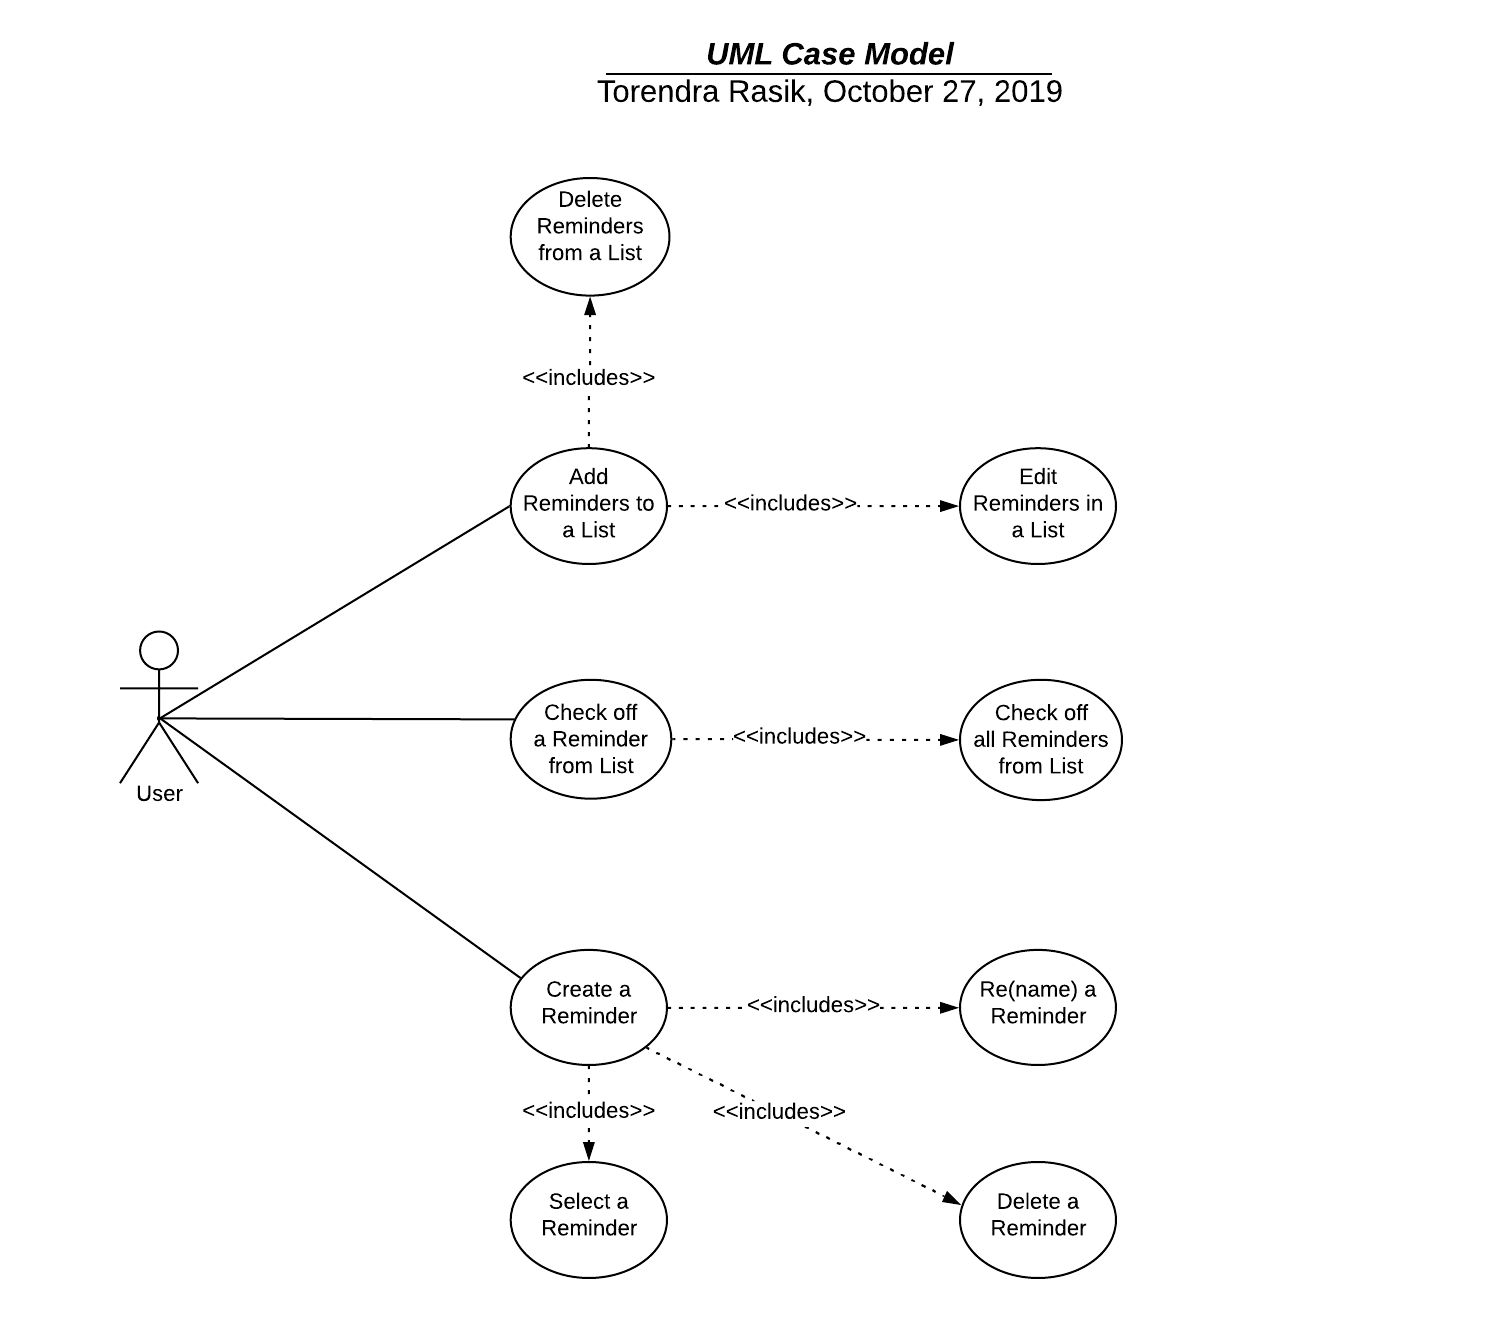
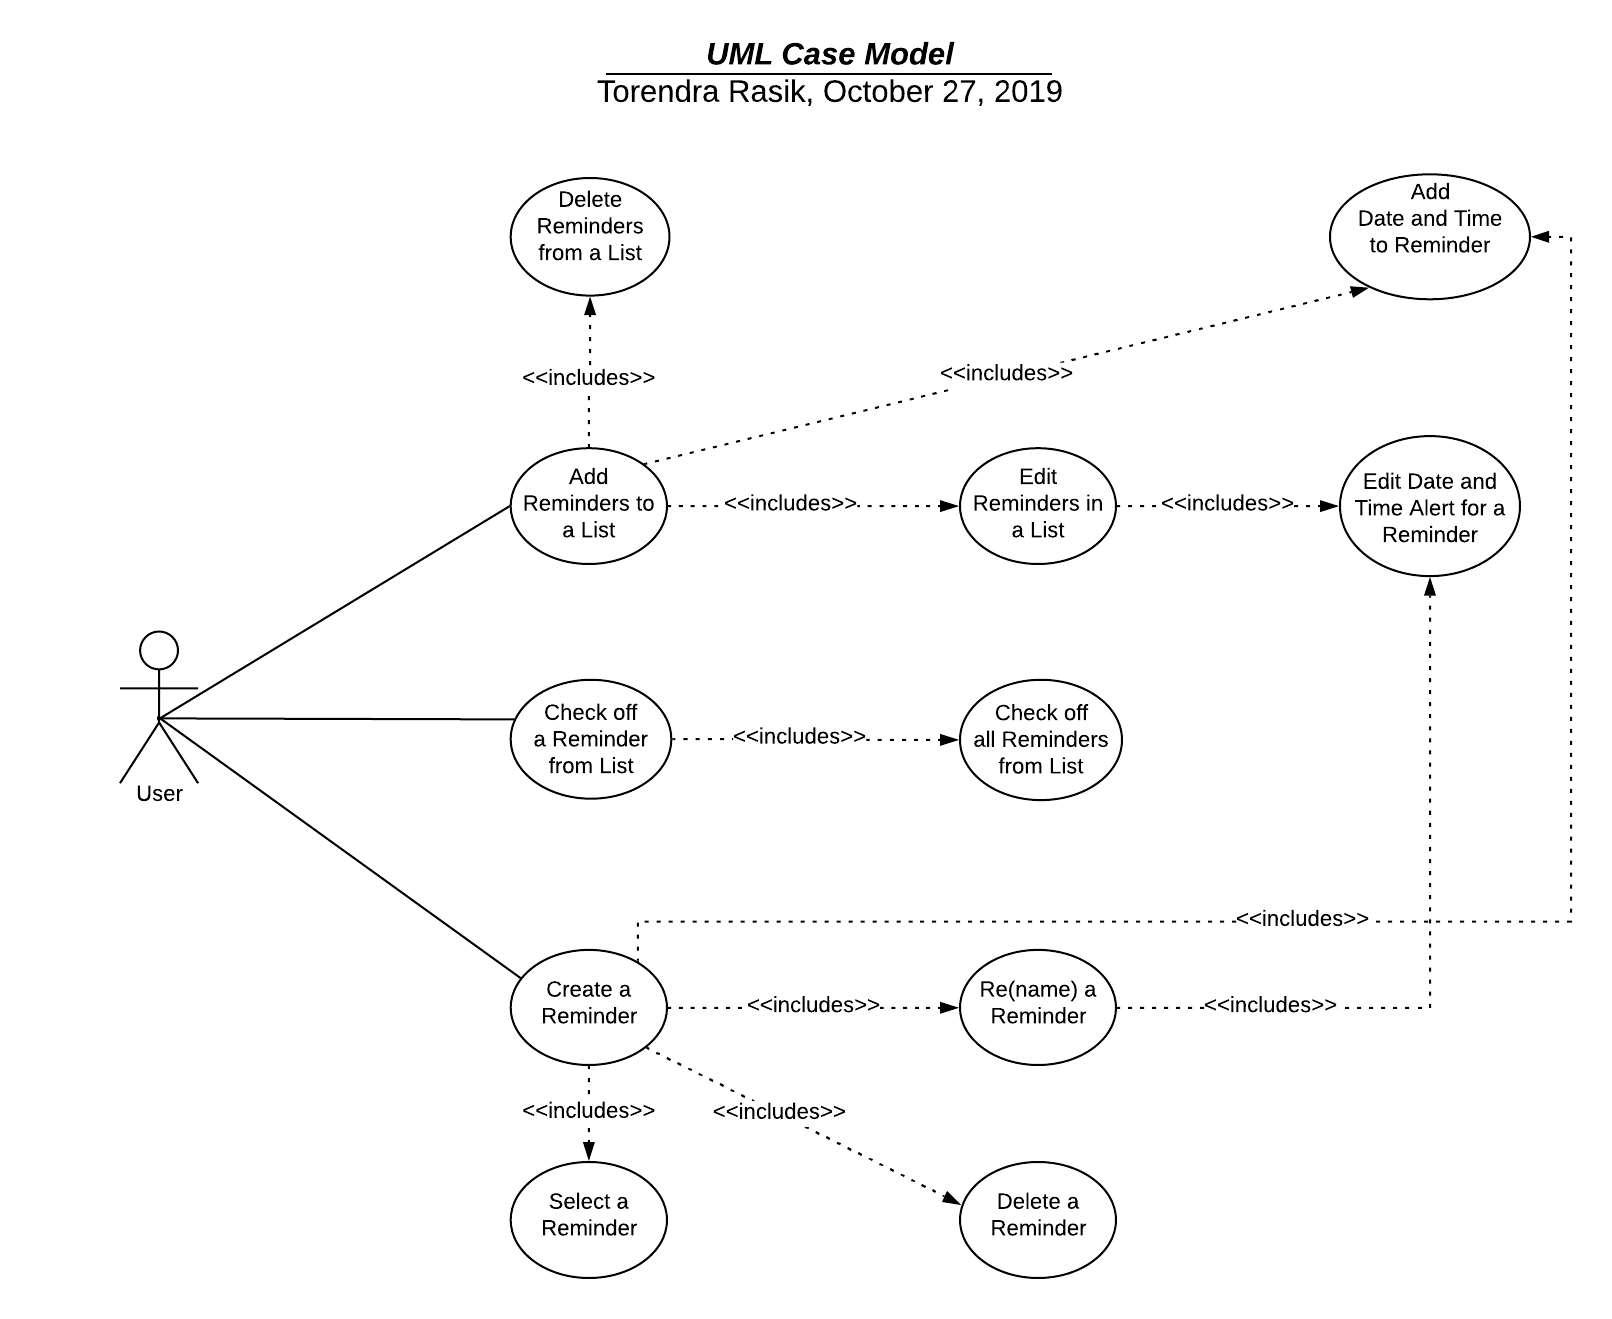
Added more documentation

diff --git a/GroupProject/UseCaseModel.md b/GroupProject/UseCaseModel.md
@@ -11,7 +11,7 @@
 1. ### Add Reminders to a List
 - Pre-conditions: In order for the user to add a Reminder to a List, a List must exist first.
 - Post-conditions: Once the User specifies the Reminder, it must be created from an instance and automatically saved to the database. It must also show within the User's List that he/she added it to.
-- Scenarios: The User must first select a pre-exisiting list within the Application. After that they must be able to add Reminders to their list in the form of interacting with a button or popup. After the User enters the Reminder Type and Name, they will be able to select and confirmation button. Once pressed the Reminder will be added to the corresponding List and saved to the database, where the User will be able to view/keep track of it.
+- Scenarios: The User must first select a pre-exisiting list within the Application. After that they must be able to add Reminders to their list in the form of interacting with a button or popup. After the User enters the Reminder Type and Name, they will be able to select a confirmation button. Once pressed the Reminder will be added to the corresponding List and saved to the database, where the User will be able to view/keep track of it.
 
 2. ### Delete Reminders from a List
 - Pre-conditions: In order for the user to remove a Reminder from a List, a List must exist first.
@@ -23,32 +23,42 @@
 - Post-conditions: Once the User selects a given Reminder they want to change, the Reminder constraints will be set to the new ones the User sets.
 - Scenarios: The User must first select a pre-exisiting list within the Application. After this, the User will be able to select a given Reminder they want to change. The User will then be able change the contraints of the Reminder e.g Type, Name etc. and then press a button for confirmation. The Reminder that was selected will automatically be updated to whatever was changed by the User within the List.
 
-4. ### Check off a Reminder from a List
+4. ### Add Date and Time to a Reminder
+- Pre-conditions: In order for the user to add a date and time a Reminder from a List, a List must exist first. The Reminder they want to add a date and time to must also exist.
+- Post-conditions: Once the User specifies the date and time, the Reminder created will now have an alert that is automatically saved to the database. It must also show within the User's List that he/she added it to. The User should be alerted at the set time and date about the Reminder.
+- Scenarios: The User must first select a pre-exisiting list within the Application. After that they must be able to add Reminders to their list in the form of interacting with a button or popup. After the User enters the Reminder Type ,Name, Date and Time, they will be able to select a confirmation button. Once pressed the Reminder will be added to the corresponding List and saved to the database, where the User will be able to view/keep track of it. The User will then recieve a notification at the specified date and time about that specific Reminder on their device.
+
+5. ### Edit Date and Time Alert for a Reminder
+- Pre-conditions: In order for the user to edit the Date and Time of Reminder from a List, a List must exist first. The Reminder they want to edit must also exist.
+- Post-conditions: Once the User selects a given Reminder they want to change, the Reminder Date and Time constraints will be set to the new ones the User sets.
+- Scenarios: The User must first select a pre-exisiting list within the Application. After this, the User will be able to select a given Reminder they want to change. The User will then be able change the Date and Time contraints of the Reminder and then press a button for confirmation. The Reminder that was selected will automatically be updated to the new specified Date and Time. The Application will now notify the User about that Reminder and the new specified time and date.
+
+6. ### Check off a Reminder from a List
 - Pre-conditions: In order for the user to edit a Reminder from a List, a List must exist first. The Reminder they want to check off must also exist.
 - Post-conditions: Once the User checks off a Reminder based on checkbox or mark, the Reminder will no longer be available e.g won't remind the User
 - Scenarios: The User must first select a pre-exisiting list within the Application. After this, the User will be able to check off a Reminder via a checkbox or mark. This will be automatic, basically a toggle for the Reminder which will allow for the User to be reminded or not. 
 
-5. ### Check off all Reminders from a List
+7. ### Check off all Reminders from a List
 - Pre-conditions: In order for the user to edit a Reminder from a List, a List must exist first. The Reminders they want to check off must also exist.
 - Post-conditions: All the Reminders within a given List will be checked off meaning they will be toggled to not remind the User anymore. 
 - Scenarios: The User must first select a pre-exisiting list within the Application. After this, the User will be able to just press a Check Off All button or popup. Once this is the done, the User will see that all Reminders within their list will be Checked Off e.g in the off position.
 
-6. ### Create a Reminder 
+8. ### Create a Reminder 
 - Pre-conditions: None
 - Post-conditions: A new stand alone Reminder will be created not pertaining to any List at the moment.
 - Scenarios: On the main Screen, the User will be able to press a button/popup to add a new Reminder. A new screen will show, which allows for the to create a new Reminder. They will be able to choose a Reminder Type and Name from this screen. If the type is not available, the User will be able to create a new one from this same screen. Once they confirm the new Reminder it will be added to the main screen where they can view it.
 
-7. ### Select a Reminder
+9. ### Select a Reminder
 - Pre-conditions: Reminders must exist in order for the User to select one. 
 - Post-conditions: The Reminder selected will not be highlighted. If many of them are selected, then those selected will be highlighted.
 - Scenarios: Anywhere within the Application, the User will be able to press on a Reminder. Once pressed the Reminder will now be selected. The User can select as many Reminders as they want in order for them to be moved, deletec etc.
 
-8. ### Re(name) a Reminder
+10. ### Re(name) a Reminder
 - Pre-conditions: Reminders must exist in order for the User to re(name) one.
 - Post-conditions: The Reminder that was selected will be changed to the new Name given by the User
 - Scenarios: When the User selects a Reminder to be renamed they will be given a new popup where they will have the option to change the name of a Reminder. Here they will be shown the previous and new name if they pick one. Once renamed the Reminder will be automatically updated to show the User the new changes they made.
 
-9. ### Delete a Reminder
+11. ### Delete a Reminder
 - Pre-conditions: Reminders must exist in order for the User to delete one.
 - Post-conditions: The Reminder will be deleted permanently from the Users' Application
 - Scenarios: The User must first select a Reminder to be deleted. After that they must be able to remove Reminders to their list in the form of interacting with a button or popup. Once the user selects the delete button on a Reminder, it will be deleted from the Application forever. 

diff --git a/GroupProject/Docs/UserManual.md b/GroupProject/Docs/UserManual.md
@@ -10,9 +10,25 @@ This Application creates and manages Reminders for a User when they need to be r
     - When the User presses/clicks on the create button (Plus Sign) they will be taken to a new screen where they will be able to create a new Reminder.
     - The Reminder to be created will be held to certain constaints. It must have a specific type e.g "Appointments", and a description e.g "Dentist Appointment"
     - The User has the option to add an Alert to their Reminder to specify a time and date they want to be reminded by their phone.
+    - If there are any lists saved within the User's Application, on start up the already created lists will be displayed in alphabetical order.
 
 2. When the User has created their Reminders, they will be able to manage those Reminders.
     - The Reminders will be displayed based on their Types e.g all Reminders with the type of "Appointments" will be listed under the List Appointments.
     - To view all Reminders under that list, the User must press/click on the list itself and all the Reminders of that type will be shown under that list. 
     - The User will be able to check off reminders by pressing the checkbox next to a specific Reminder
     - Once the User checks off a Reminder, it will turn to an inactive state meaning that the Reminder is done and the User no longer wants to be notified or track that Reminder.
+
+3. Deletion of Reminders/Reminder Lists
+    - If a User wishes to delete a specific Reminder, they should navigate to the Reminder within their lists and they will see a red "X".
+    - Once pressed/clicked, the User will see that the selected Reminder will be deleted forever from their Application
+    - If a User wishes to delete an entire List of Reminders, they should navigate to the specific list they want to delete
+    - Once there, they will see a 3 Dots button to the right of the list.
+    - When that button is clicked, a popup will appear with the option to delete List
+    - Once "Delete List" is clicked/pressed, the list will be deleted forever and the User will notice a message on the bottom stating that the list was deleted.
+
+4. Error Handling
+    - If the User tries to create a new Reminder without specifying a type, they will notice a message on the bottom of the screen saying that they need to input a value for both the type and description of a Reminder
+    - If the User tries to create a new Reminder without specifying a description, they will notice a message on the bottom of the screen saying that they need to input a value for both the type and description of a Reminder
+    - If the user clicks Cancel while on the Create Reminder screen, they will be taken back to the Main Screen where a message will be shown on the bottom, that states the Reminder was not created and was not saved within the database.
+    - If the User tries to input an time for their Reminder to be alerted without inputting the date, they will notice a message on the bottom of the screen saying that they need to input a value for both the time and date of the alert. 
+    - If the User tries to input a date for their Reminder to be alerted without inputting the time, they will notice a message on the bottom of the screen saying that they need to input a value for both the time and date of the alert.
